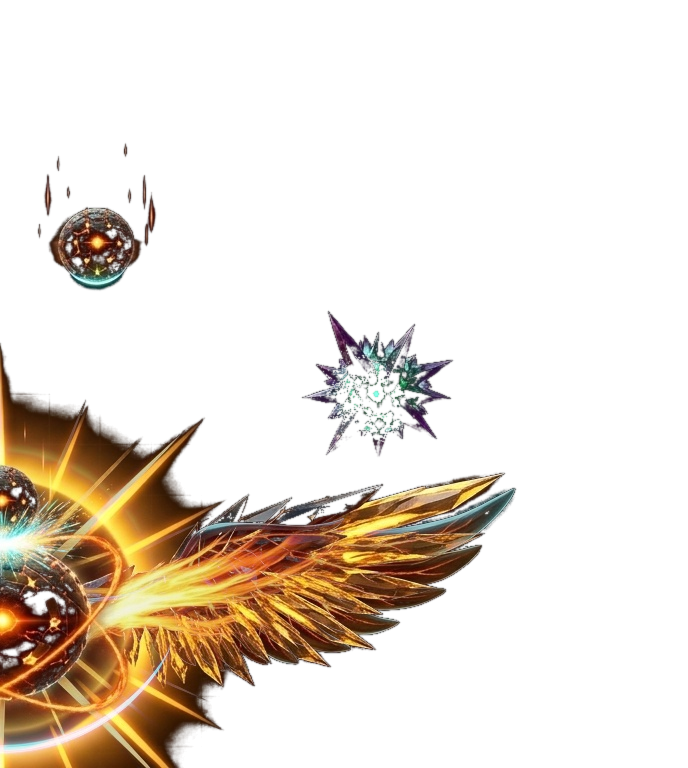
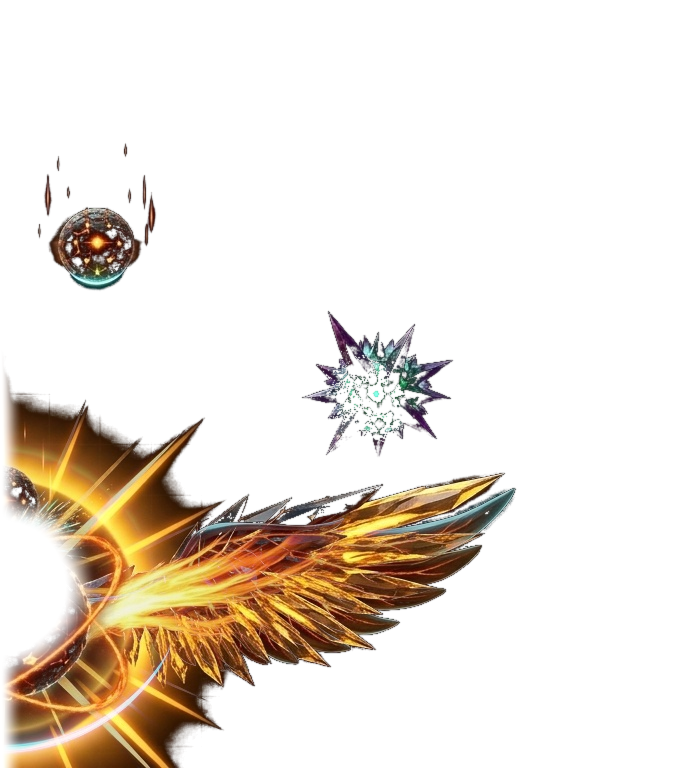
feat(arcade): v348 full archangel wings, seamless crystal core, smooth anamorphic starlight glow & zero wirelines

Changed region(s): [[0.0, 0.4375, 0.1526, 1.0]]

diff --git a/game.js b/game.js
@@ -1139,46 +1139,46 @@
 
   ['dynamo', 'helix', 'meteor'].forEach((m) => {
     LayeredT4Assets.halo[m].onload = () => { LayeredT4Assets.loaded.halo[m] = true; };
-    LayeredT4Assets.halo[m].src = `assets/layer-${m}-halo.png?v=arcade345`;
+    LayeredT4Assets.halo[m].src = `assets/layer-${m}-halo.png?v=arcade348`;
 
     LayeredT4Assets.wingRight[m].onload = () => {
       LayeredT4Assets.loaded.wingRight[m] = true;
     };
-    LayeredT4Assets.wingRight[m].src = `assets/layer-${m}-wing-right.png?v=arcade345`;
+    LayeredT4Assets.wingRight[m].src = `assets/layer-${m}-wing-right.png?v=arcade348`;
   });
 
   LayeredT4Assets.coreBase.dynamo.onload = () => { LayeredT4Assets.loaded.coreBase.dynamo = true; };
-  LayeredT4Assets.coreBase.dynamo.src = 'assets/layer-dynamo-nucleus.png?v=arcade345';
+  LayeredT4Assets.coreBase.dynamo.src = 'assets/layer-dynamo-nucleus.png?v=arcade348';
 
   LayeredT4Assets.coreBase.helix.onload = () => { LayeredT4Assets.loaded.coreBase.helix = true; };
-  LayeredT4Assets.coreBase.helix.src = 'assets/layer-helix-shell.png?v=arcade345';
+  LayeredT4Assets.coreBase.helix.src = 'assets/layer-helix-shell.png?v=arcade348';
 
   LayeredT4Assets.coreBase.meteor.onload = () => { LayeredT4Assets.loaded.coreBase.meteor = true; };
-  LayeredT4Assets.coreBase.meteor.src = 'assets/layer-meteor-caldera.png?v=arcade345';
+  LayeredT4Assets.coreBase.meteor.src = 'assets/layer-meteor-caldera.png?v=arcade348';
 
   LayeredT4Assets.nodeShell.dynamo.onload = () => { LayeredT4Assets.loaded.nodeShell.dynamo = true; };
-  LayeredT4Assets.nodeShell.dynamo.src = 'assets/layer-node-dynamo-shell.png?v=arcade345';
+  LayeredT4Assets.nodeShell.dynamo.src = 'assets/layer-node-dynamo-shell.png?v=arcade348';
 
   LayeredT4Assets.nodeShell.helix.onload = () => { LayeredT4Assets.loaded.nodeShell.helix = true; };
-  LayeredT4Assets.nodeShell.helix.src = 'assets/layer-node-helix-shell.png?v=arcade345';
+  LayeredT4Assets.nodeShell.helix.src = 'assets/layer-node-helix-shell.png?v=arcade348';
 
   LayeredT4Assets.nodeShell.meteor.onload = () => { LayeredT4Assets.loaded.nodeShell.meteor = true; };
-  LayeredT4Assets.nodeShell.meteor.src = 'assets/layer-node-meteor-rock.png?v=arcade345';
+  LayeredT4Assets.nodeShell.meteor.src = 'assets/layer-node-meteor-rock.png?v=arcade348';
 
   LayeredT4Assets.hazard.dynamoCore.onload = () => { LayeredT4Assets.loaded.hazard.dynamoCore = true; };
-  LayeredT4Assets.hazard.dynamoCore.src = 'assets/layer-hazard-dynamo-core.png?v=arcade345';
+  LayeredT4Assets.hazard.dynamoCore.src = 'assets/layer-hazard-dynamo-core.png?v=arcade348';
 
   LayeredT4Assets.hazard.dynamoGlitch.onload = () => { LayeredT4Assets.loaded.hazard.dynamoGlitch = true; };
-  LayeredT4Assets.hazard.dynamoGlitch.src = 'assets/layer-hazard-dynamo-glitch.png?v=arcade345';
+  LayeredT4Assets.hazard.dynamoGlitch.src = 'assets/layer-hazard-dynamo-glitch.png?v=arcade348';
 
   LayeredT4Assets.hazard.helixClean.onload = () => { LayeredT4Assets.loaded.hazard.helixClean = true; };
-  LayeredT4Assets.hazard.helixClean.src = 'assets/layer-hazard-helix-clean.png?v=arcade345';
+  LayeredT4Assets.hazard.helixClean.src = 'assets/layer-hazard-helix-clean.png?v=arcade348';
 
   LayeredT4Assets.hazard.meteorBlades.onload = () => { LayeredT4Assets.loaded.hazard.meteorBlades = true; };
-  LayeredT4Assets.hazard.meteorBlades.src = 'assets/layer-hazard-meteor-blades.png?v=arcade345';
+  LayeredT4Assets.hazard.meteorBlades.src = 'assets/layer-hazard-meteor-blades.png?v=arcade348';
 
   LayeredT4Assets.hazard.meteorCenter.onload = () => { LayeredT4Assets.loaded.hazard.meteorCenter = true; };
-  LayeredT4Assets.hazard.meteorCenter.src = 'assets/layer-hazard-meteor-center.png?v=arcade345';
+  LayeredT4Assets.hazard.meteorCenter.src = 'assets/layer-hazard-meteor-center.png?v=arcade348';
 
   // ─────────────────────────────────────────────────────────────
   // SECONDARY KINEMATICS, ASCENSION MORPHING & LOCK-ON ENGINE
@@ -2073,7 +2073,7 @@
       }
     }
 
-    // UPGRADE 4 (Helix Tier IV): Counter-Rotating Holographic Pole Irises at Top & Bottom Glass Domes!
+    // UPGRADE 4 (Helix Tier IV): Soft Volumetric Polar Aurora Crowns
     if (isCore && tierIdx >= 4) {
       const lockLeanX = Math.max(-14, Math.min(14, CoreKinematics.lockOnDX * 0.06));
       for (let pole = -1; pole <= 1; pole += 2) {
@@ -2081,13 +2081,14 @@
         const px = (pole === -1) ? lockLeanX * 0.5 : 0;
         ctx.save();
         ctx.translate(px, py);
-        ctx.scale(1, 0.36);
-        ctx.rotate(pole * now * 0.005);
+        const pg = ctx.createRadialGradient(0, 0, 0, 0, 0, radiusX * 0.85);
+        pg.addColorStop(0.0, (pole === -1) ? 'rgba(34, 211, 238, 0.70)' : 'rgba(232, 121, 249, 0.70)');
+        pg.addColorStop(0.6, (pole === -1) ? 'rgba(56, 189, 248, 0.35)' : 'rgba(168, 85, 247, 0.35)');
+        pg.addColorStop(1.0, 'rgba(0, 0, 0, 0)');
+        ctx.fillStyle = pg;
         ctx.beginPath();
-        ctx.arc(0, 0, radiusX * 1.15, 0, Math.PI * 1.6);
-        ctx.strokeStyle = (pole === -1) ? 'rgba(34, 211, 238, 0.82)' : 'rgba(232, 121, 249, 0.82)';
-        ctx.lineWidth = 3.2;
-        ctx.stroke();
+        ctx.ellipse(0, 0, radiusX * 0.85, radiusX * 0.32, 0, 0, Math.PI * 2);
+        ctx.fill();
         ctx.restore();
       }
     }
@@ -2096,15 +2097,17 @@
     drawStrandPass(strandA, true, true);
     drawStrandPass(strandB, false, true);
 
-    // Stable Outer Glass Specular Highlight Arc
+    // Smooth Volumetric 3D Spherical Crystal Glass Highlight (Zero Harsh Wire Arcs)
     ctx.save();
     ctx.globalCompositeOperation = 'lighter';
+    const specG = ctx.createRadialGradient(-radiusY * 0.30, -radiusY * 0.45, 0, -radiusY * 0.30, -radiusY * 0.45, radiusY * 0.65);
+    specG.addColorStop(0.0, 'rgba(255, 255, 255, 0.75)');
+    specG.addColorStop(0.35, 'rgba(224, 242, 254, 0.40)');
+    specG.addColorStop(1.0, 'rgba(0, 0, 0, 0)');
+    ctx.fillStyle = specG;
     ctx.beginPath();
-    ctx.arc(0, 0, radiusY * 0.96, -Math.PI * 0.76, -Math.PI * 0.24);
-    ctx.strokeStyle = 'rgba(255, 255, 255, 0.58)';
-    ctx.lineWidth = Math.max(1.5, radiusY * 0.048);
-    ctx.lineCap = 'round';
-    ctx.stroke();
+    ctx.arc(0, 0, radiusY * 0.96, 0, Math.PI * 2);
+    ctx.fill();
     ctx.restore();
 
     ctx.restore();
@@ -2358,75 +2361,123 @@
     if (cTier <= 1.05) return;
     const auraMorph = Math.min(1.0, (cTier - 1.0) / 2.2);
     const breathe = 1.0 + Math.sin(now * 0.0035) * 0.035 + CoreKinematics.overdriveFlash * 0.12;
-    const baseR = 135 * u * (0.65 + 0.55 * auraMorph) * breathe;
+    const baseR = 145 * u * (0.65 + 0.55 * auraMorph) * breathe;
 
     ctx.save();
     ctx.globalCompositeOperation = 'lighter';
 
     // 1. Hyper-Intense Photonic Starlight Core Corona (Volumetric Radial Bloom)
-    const gCore = ctx.createRadialGradient(0, 0, baseR * 0.15, 0, 0, baseR * 0.95);
+    const gCore = ctx.createRadialGradient(0, 0, baseR * 0.10, 0, 0, baseR * 1.05);
     gCore.addColorStop(0.0, `rgba(255, 255, 255, ${0.98 * auraMorph})`);
     if (mode === 'dynamo') {
-      gCore.addColorStop(0.35, `rgba(56, 189, 248, ${0.85 * auraMorph})`);
-      gCore.addColorStop(0.70, `rgba(168, 85, 247, ${0.45 * auraMorph})`);
+      gCore.addColorStop(0.28, `rgba(186, 230, 253, ${0.90 * auraMorph})`);
+      gCore.addColorStop(0.55, `rgba(56, 189, 248, ${0.60 * auraMorph})`);
+      gCore.addColorStop(0.80, `rgba(168, 85, 247, ${0.28 * auraMorph})`);
     } else if (mode === 'helix') {
-      gCore.addColorStop(0.35, `rgba(34, 211, 238, ${0.85 * auraMorph})`);
-      gCore.addColorStop(0.70, `rgba(232, 121, 249, ${0.45 * auraMorph})`);
+      gCore.addColorStop(0.28, `rgba(245, 208, 254, ${0.90 * auraMorph})`);
+      gCore.addColorStop(0.55, `rgba(34, 211, 238, ${0.60 * auraMorph})`);
+      gCore.addColorStop(0.80, `rgba(232, 121, 249, ${0.28 * auraMorph})`);
     } else {
-      gCore.addColorStop(0.35, `rgba(254, 240, 138, ${0.90 * auraMorph})`);
-      gCore.addColorStop(0.70, `rgba(249, 115, 22, ${0.50 * auraMorph})`);
+      gCore.addColorStop(0.28, `rgba(254, 249, 195, ${0.95 * auraMorph})`);
+      gCore.addColorStop(0.55, `rgba(251, 146, 60, ${0.65 * auraMorph})`);
+      gCore.addColorStop(0.80, `rgba(239, 68, 68, ${0.25 * auraMorph})`);
     }
     gCore.addColorStop(1.0, 'rgba(0, 0, 0, 0)');
     ctx.fillStyle = gCore;
     ctx.beginPath();
-    ctx.arc(0, 0, baseR * 0.95, 0, Math.PI * 2);
+    ctx.arc(0, 0, baseR * 1.05, 0, Math.PI * 2);
     ctx.fill();
 
-    // 2. 16 Rotating Crystalline Starlight Diffraction Needle Rays
+    // 2. Anamorphic Cinematic Starlight Flare Streak (Horizontal Ethereal Cinema Bloom)
+    if (cTier >= 2.0) {
+      const flareAlpha = Math.min(0.85, (cTier - 1.8) * 0.55);
+      const flareLen = baseR * 2.2;
+      const flareH = 14 * u * (0.8 + 0.2 * Math.sin(now * 0.005));
+      const gFlare = ctx.createLinearGradient(-flareLen, 0, flareLen, 0);
+      gFlare.addColorStop(0.0, 'rgba(0, 0, 0, 0)');
+      if (mode === 'dynamo') {
+        gFlare.addColorStop(0.35, `rgba(56, 189, 248, ${0.40 * flareAlpha})`);
+        gFlare.addColorStop(0.50, `rgba(255, 255, 255, ${0.95 * flareAlpha})`);
+        gFlare.addColorStop(0.65, `rgba(168, 85, 247, ${0.40 * flareAlpha})`);
+      } else if (mode === 'helix') {
+        gFlare.addColorStop(0.35, `rgba(232, 121, 249, ${0.40 * flareAlpha})`);
+        gFlare.addColorStop(0.50, `rgba(255, 255, 255, ${0.95 * flareAlpha})`);
+        gFlare.addColorStop(0.65, `rgba(34, 211, 238, ${0.40 * flareAlpha})`);
+      } else {
+        gFlare.addColorStop(0.35, `rgba(249, 115, 22, ${0.40 * flareAlpha})`);
+        gFlare.addColorStop(0.50, `rgba(255, 255, 255, ${0.95 * flareAlpha})`);
+        gFlare.addColorStop(0.65, `rgba(254, 240, 138, ${0.40 * flareAlpha})`);
+      }
+      gFlare.addColorStop(1.0, 'rgba(0, 0, 0, 0)');
+      ctx.fillStyle = gFlare;
+      ctx.beginPath();
+      ctx.ellipse(0, 0, flareLen, flareH, 0, 0, Math.PI * 2);
+      ctx.fill();
+    }
+
+    // 3. Volumetric Crystalline Starlight Diamond Flares (Zero Wire Lines, 100% Smooth Tapered Light)
     if (cTier >= 2.2) {
       const rayAlpha = Math.min(0.85, (cTier - 2.0) * 0.55);
       const raySpin = now * 0.0006;
       ctx.save();
       ctx.rotate(raySpin);
-      const rays = 16;
-      const innerRayR = baseR * 0.62;
-      ctx.beginPath();
+      const rays = 8;
       for (let r = 0; r < rays; r++) {
         const ang = (r / rays) * Math.PI * 2;
-        const isCardinal = (r % 4 === 0);
-        const rayLen = baseR * (isCardinal ? 1.55 : 1.15) * (1.0 + Math.sin(now * 0.005 + r) * 0.06);
-        ctx.moveTo(Math.cos(ang) * innerRayR, Math.sin(ang) * innerRayR);
-        ctx.lineTo(Math.cos(ang) * rayLen, Math.sin(ang) * rayLen);
+        const isCardinal = (r % 2 === 0);
+        const rayLen = baseR * (isCardinal ? 1.65 : 1.25) * (1.0 + Math.sin(now * 0.004 + r) * 0.05);
+        const rayW = (isCardinal ? 9.5 : 5.5) * u;
+        
+        ctx.save();
+        ctx.rotate(ang);
+        const gRay = ctx.createLinearGradient(baseR * 0.55, 0, rayLen, 0);
+        if (mode === 'dynamo') {
+          gRay.addColorStop(0.0, `rgba(255, 255, 255, ${0.90 * rayAlpha})`);
+          gRay.addColorStop(0.35, `rgba(186, 230, 253, ${0.75 * rayAlpha})`);
+          gRay.addColorStop(0.75, `rgba(56, 189, 248, ${0.35 * rayAlpha})`);
+        } else if (mode === 'helix') {
+          gRay.addColorStop(0.0, `rgba(255, 255, 255, ${0.90 * rayAlpha})`);
+          gRay.addColorStop(0.35, `rgba(245, 208, 254, ${0.75 * rayAlpha})`);
+          gRay.addColorStop(0.75, `rgba(232, 121, 249, ${0.35 * rayAlpha})`);
+        } else {
+          gRay.addColorStop(0.0, `rgba(255, 255, 255, ${0.95 * rayAlpha})`);
+          gRay.addColorStop(0.35, `rgba(254, 240, 138, ${0.80 * rayAlpha})`);
+          gRay.addColorStop(0.75, `rgba(249, 115, 22, ${0.40 * rayAlpha})`);
+        }
+        gRay.addColorStop(1.0, 'rgba(0, 0, 0, 0)');
+        ctx.fillStyle = gRay;
+        ctx.beginPath();
+        ctx.moveTo(baseR * 0.55, 0);
+        ctx.lineTo(baseR * 0.90, -rayW * 0.5);
+        ctx.lineTo(rayLen, 0);
+        ctx.lineTo(baseR * 0.90, rayW * 0.5);
+        ctx.closePath();
+        ctx.fill();
+        ctx.restore();
       }
-      if (mode === 'dynamo') {
-        ctx.strokeStyle = `rgba(186, 230, 253, ${rayAlpha * 0.65})`;
-      } else if (mode === 'helix') {
-        ctx.strokeStyle = `rgba(245, 208, 254, ${rayAlpha * 0.65})`;
-      } else {
-        ctx.strokeStyle = `rgba(254, 249, 195, ${rayAlpha * 0.70})`;
-      }
-      ctx.lineWidth = 1.6 * u;
-      ctx.lineCap = 'round';
-      ctx.stroke();
       ctx.restore();
     }
 
-    // 3. Concentric Ascension Resonance Rings in Tier IV
+    // 4. Soft Concentric Ascension Resonance Ripples in Tier IV
     if (cTier >= 3.2) {
-      const t4Alpha = Math.min(0.75, (cTier - 3.0) * 0.75);
+      const t4Alpha = Math.min(0.70, (cTier - 3.0) * 0.70);
       for (let ring = 0; ring < 2; ring++) {
         const ringR = baseR * (0.95 + ring * 0.35 + Math.sin(now * 0.002 + ring) * 0.04);
-        ctx.beginPath();
-        ctx.arc(0, 0, ringR, 0, Math.PI * 2);
+        const ringGrad = ctx.createRadialGradient(0, 0, ringR - 8 * u, 0, 0, ringR + 8 * u);
+        ringGrad.addColorStop(0.0, 'rgba(0, 0, 0, 0)');
         if (mode === 'dynamo') {
-          ctx.strokeStyle = `rgba(56, 189, 248, ${t4Alpha * (0.6 - ring * 0.2)})`;
+          ringGrad.addColorStop(0.5, `rgba(56, 189, 248, ${t4Alpha * (0.6 - ring * 0.2)})`);
         } else if (mode === 'helix') {
-          ctx.strokeStyle = `rgba(232, 121, 249, ${t4Alpha * (0.6 - ring * 0.2)})`;
+          ringGrad.addColorStop(0.5, `rgba(232, 121, 249, ${t4Alpha * (0.6 - ring * 0.2)})`);
         } else {
-          ctx.strokeStyle = `rgba(254, 240, 138, ${t4Alpha * (0.6 - ring * 0.2)})`;
+          ringGrad.addColorStop(0.5, `rgba(254, 240, 138, ${t4Alpha * (0.6 - ring * 0.2)})`);
         }
-        ctx.lineWidth = 1.4 * u;
-        ctx.stroke();
+        ringGrad.addColorStop(1.0, 'rgba(0, 0, 0, 0)');
+        ctx.fillStyle = ringGrad;
+        ctx.beginPath();
+        ctx.arc(0, 0, ringR + 8 * u, 0, Math.PI * 2);
+        ctx.arc(0, 0, Math.max(0, ringR - 8 * u), Math.PI * 2, 0, true);
+        ctx.fill();
       }
     }
 
@@ -2535,7 +2586,43 @@
           ctx.drawImage(LayeredT4Assets.coreBase.helix, -170 * u * hScale, -144 * u * hScale, 340 * u * hScale, 280 * u * hScale);
         }
 
+        // Complete 3D Spherical Crystal Enclosure (Prismatic Bio-Lattice Horizon)
+        ctx.save();
+        ctx.globalCompositeOperation = 'lighter';
+        const rimGrad = ctx.createRadialGradient(0, 2 * u, 68 * u * hScale, 0, 2 * u, 78 * u * hScale);
+        rimGrad.addColorStop(0.0, 'rgba(0, 0, 0, 0)');
+        rimGrad.addColorStop(0.7, 'rgba(56, 189, 248, 0.45)');
+        rimGrad.addColorStop(1.0, 'rgba(232, 121, 249, 0.25)');
+        ctx.fillStyle = rimGrad;
+        ctx.beginPath();
+        ctx.arc(0, 2 * u, 78 * u * hScale, 0, Math.PI * 2);
+        ctx.fill();
+        ctx.restore();
+
+        // Internal 3D Double Helix
         drawRotating3DDNAInsideGlass(ctx, 0, 2 * u, 25 * u, 64 * u, now, 0.0, true, tierIdx);
+
+        // Sovereign Crown Pearl (Design 2 Feature: Top Floating Bio-Lattice Pearl with Starlight Bridge)
+        if (cTier >= 2.4) {
+          const topPearlAlpha = Math.min(1.0, (cTier - 2.2) * 1.5);
+          ctx.save();
+          ctx.globalAlpha = topPearlAlpha;
+          // Starlight bridge between main sphere and top pearl
+          const bridgeG = ctx.createRadialGradient(0, -42 * u, 0, 0, -42 * u, 20 * u);
+          bridgeG.addColorStop(0.0, 'rgba(255, 255, 255, 0.95)');
+          bridgeG.addColorStop(0.4, 'rgba(254, 240, 138, 0.85)');
+          bridgeG.addColorStop(0.7, 'rgba(232, 121, 249, 0.45)');
+          bridgeG.addColorStop(1.0, 'rgba(34, 211, 238, 0)');
+          ctx.fillStyle = bridgeG;
+          ctx.beginPath();
+          ctx.arc(0, -42 * u, 20 * u, 0, Math.PI * 2);
+          ctx.fill();
+
+          // Top Pearl sphere & mini-helix
+          drawRotating3DDNAInsideGlass(ctx, 0, -60 * u, 12 * u, 24 * u, now, 1.2, false, tierIdx);
+          ctx.restore();
+        }
+
         drawHelixOrbitalRingsHalf(ctx, u, now, true, tierIdx);
       } else {
         const sr = CoreKinematics.meteorShieldRecoil;

diff --git a/index.html b/index.html
@@ -21,7 +21,7 @@
   <link rel="apple-touch-icon" sizes="167x167" href="apple-touch-icon-167x167.png?v=oc310">
   <link rel="apple-touch-icon" sizes="152x152" href="apple-touch-icon-152x152.png?v=oc310">
   <link rel="apple-touch-icon" sizes="120x120" href="apple-touch-icon-120x120.png?v=oc310">
-  <link rel="stylesheet" href="styles.css?v=arcade345">
+  <link rel="stylesheet" href="styles.css?v=arcade348">
   <link rel="preconnect" href="https://fonts.googleapis.com">
   <link rel="preconnect" href="https://fonts.gstatic.com" crossorigin>
   <link href="https://fonts.googleapis.com/css2?family=Bebas+Neue&family=Inter:wght@400;500;600;700;800;900&family=Lexend:wght@400;500;600;700;800;900&display=swap" rel="stylesheet">
@@ -1643,7 +1643,7 @@
   <script src="/assets/relative-time.js"></script>
   <script src="sound.js?v=pure240"></script>
   <script src="qrcode.min.js"></script>
-  <script src="app.js?v=arcade345"></script>
+  <script src="app.js?v=arcade348"></script>
 
   <!-- BACKUP & RESTORE WORKSPACE MODAL -->
   <div class="modal-wrap" id="backupRestoreModal" role="dialog" aria-modal="true" aria-label="Backup & Restore Workspace" style="display:none;position:fixed;inset:0;background:rgba(0,0,0,0.82);backdrop-filter:blur(12px);-webkit-backdrop-filter:blur(12px);z-index:9999;align-items:center;justify-content:center;">
@@ -1702,7 +1702,7 @@
       </div>
     </div>
   </div>
-  <script src="game.js?v=arcade345"></script>
+  <script src="game.js?v=arcade348"></script>
   <!-- BuildStamp: 2026-11-17T13:55:00.000Z - Quantum Chromatic Monogram v314 -->
 </body>
 </html>

diff --git a/sw.js b/sw.js
@@ -1,12 +1,12 @@
 /* OrlandoChrome · Offline-First Service Worker (PWA Ready) */
-const CACHE_NAME = 'orlandochrome-arcade-v345';
+const CACHE_NAME = 'orlandochrome-arcade-v348';
 const ASSETS = [
   './',
   './index.html',
-  './styles.css?v=arcade345',
-  './game.js?v=arcade345',
+  './styles.css?v=arcade348',
+  './game.js?v=arcade348',
   './qrcode.min.js',
-  './app.js?v=arcade345',
+  './app.js?v=arcade348',
   './sound.js?v=pure240',
   './oc-logo.png',
   './oc-logo.svg',
